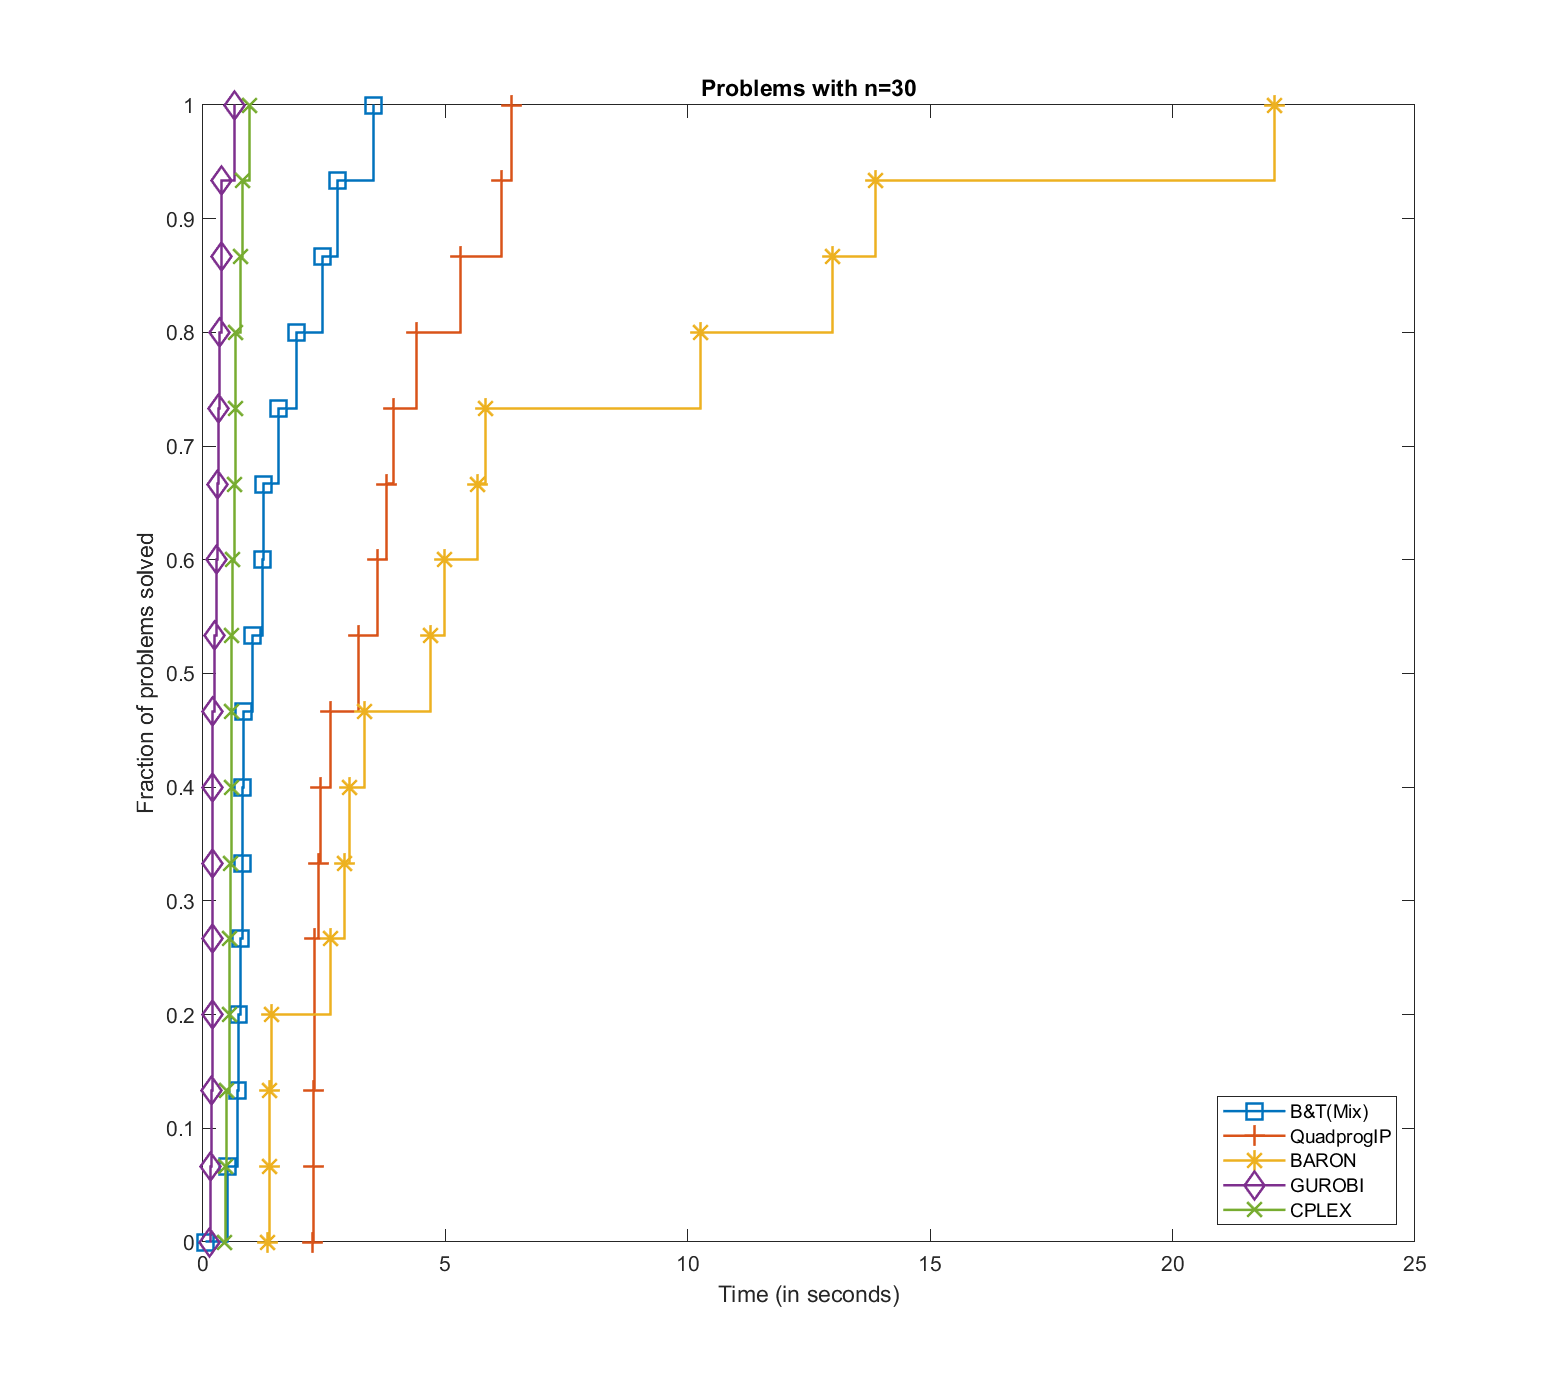
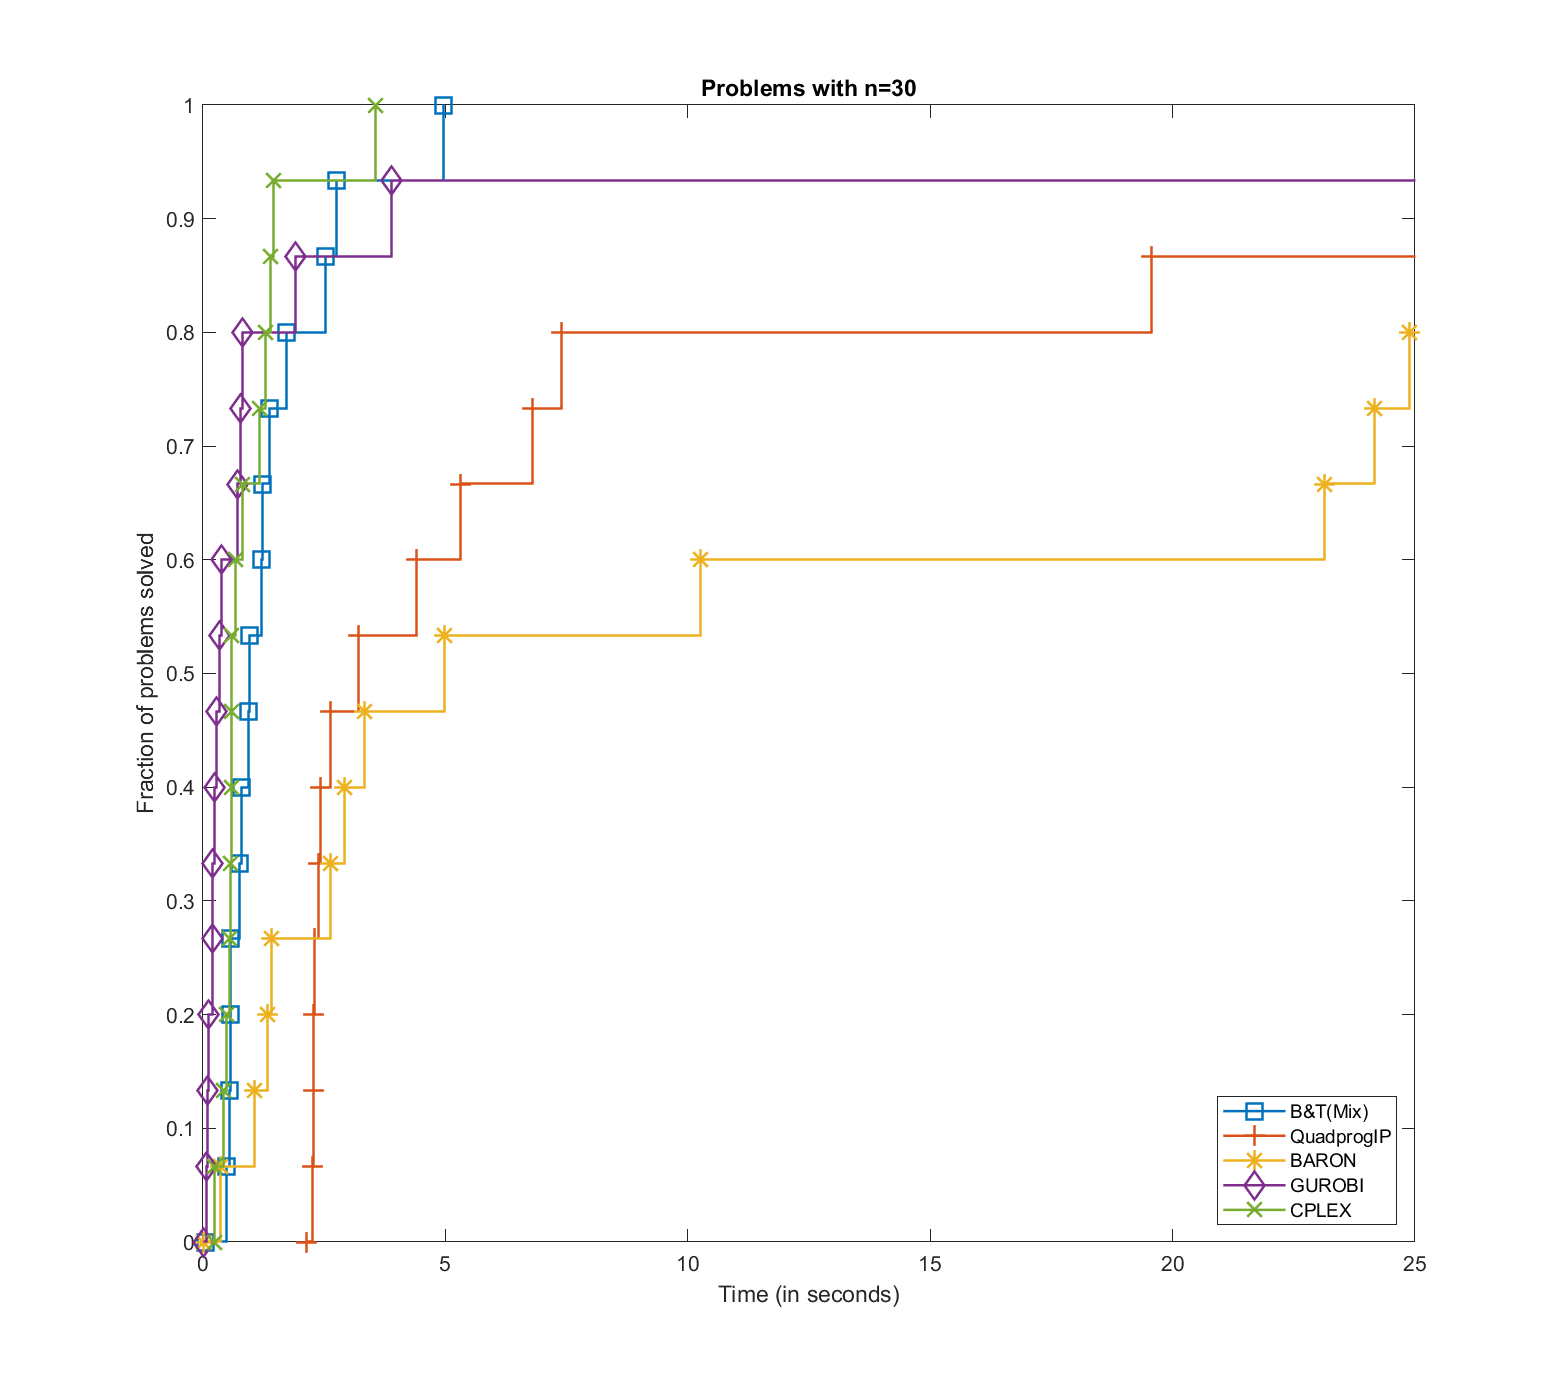
fixed error found by Marco in drawing the figures
Ho ricaricato tutte le figure e i file .m e .mat che servono per generarle

diff --git a/results/draw_the_figures.m b/results/draw_the_figures.m
@@ -2,12 +2,12 @@ clear all
 close all
 clc
 
-load('WKS_RESULTS1.mat')
+load('WKS_RESULTS.mat')
 colormap parula
 
 
 %%%%%%%%%%%%%% dim. 20+30+40+50
-figure('Position',[0,0,1000,1000]);
+hf = figure('Position',[0,0,1000,1000]);
 stairs(sort(BEST2_10),[1:64]/64,'s-','Linewidth',1.2,'Markersize',10)
 hold on
 stairs(sort(QIP),[1:64]/64,'+-','Linewidth',1.2,'Markersize',10)
@@ -17,7 +17,9 @@ stairs(sort(CPLEX),[1:64]/64,'x-','Linewidth',1.2,'Markersize',10)
 xlim([0,30])
 xlabel('Time (in seconds)')
 ylabel('Fraction of problems solved')
+title('Problems with n=20,30,40,50')
 legend('B&T(Mix)','QuadprogIP','BARON','GUROBI','CPLEX','Location','southeast')
+saveas(hf,['CompareSolvers.png']);
 
 %%%%%%%%%%%%%% dim. 20
 hf = figure('Position',[0,0,1000,1000]);
